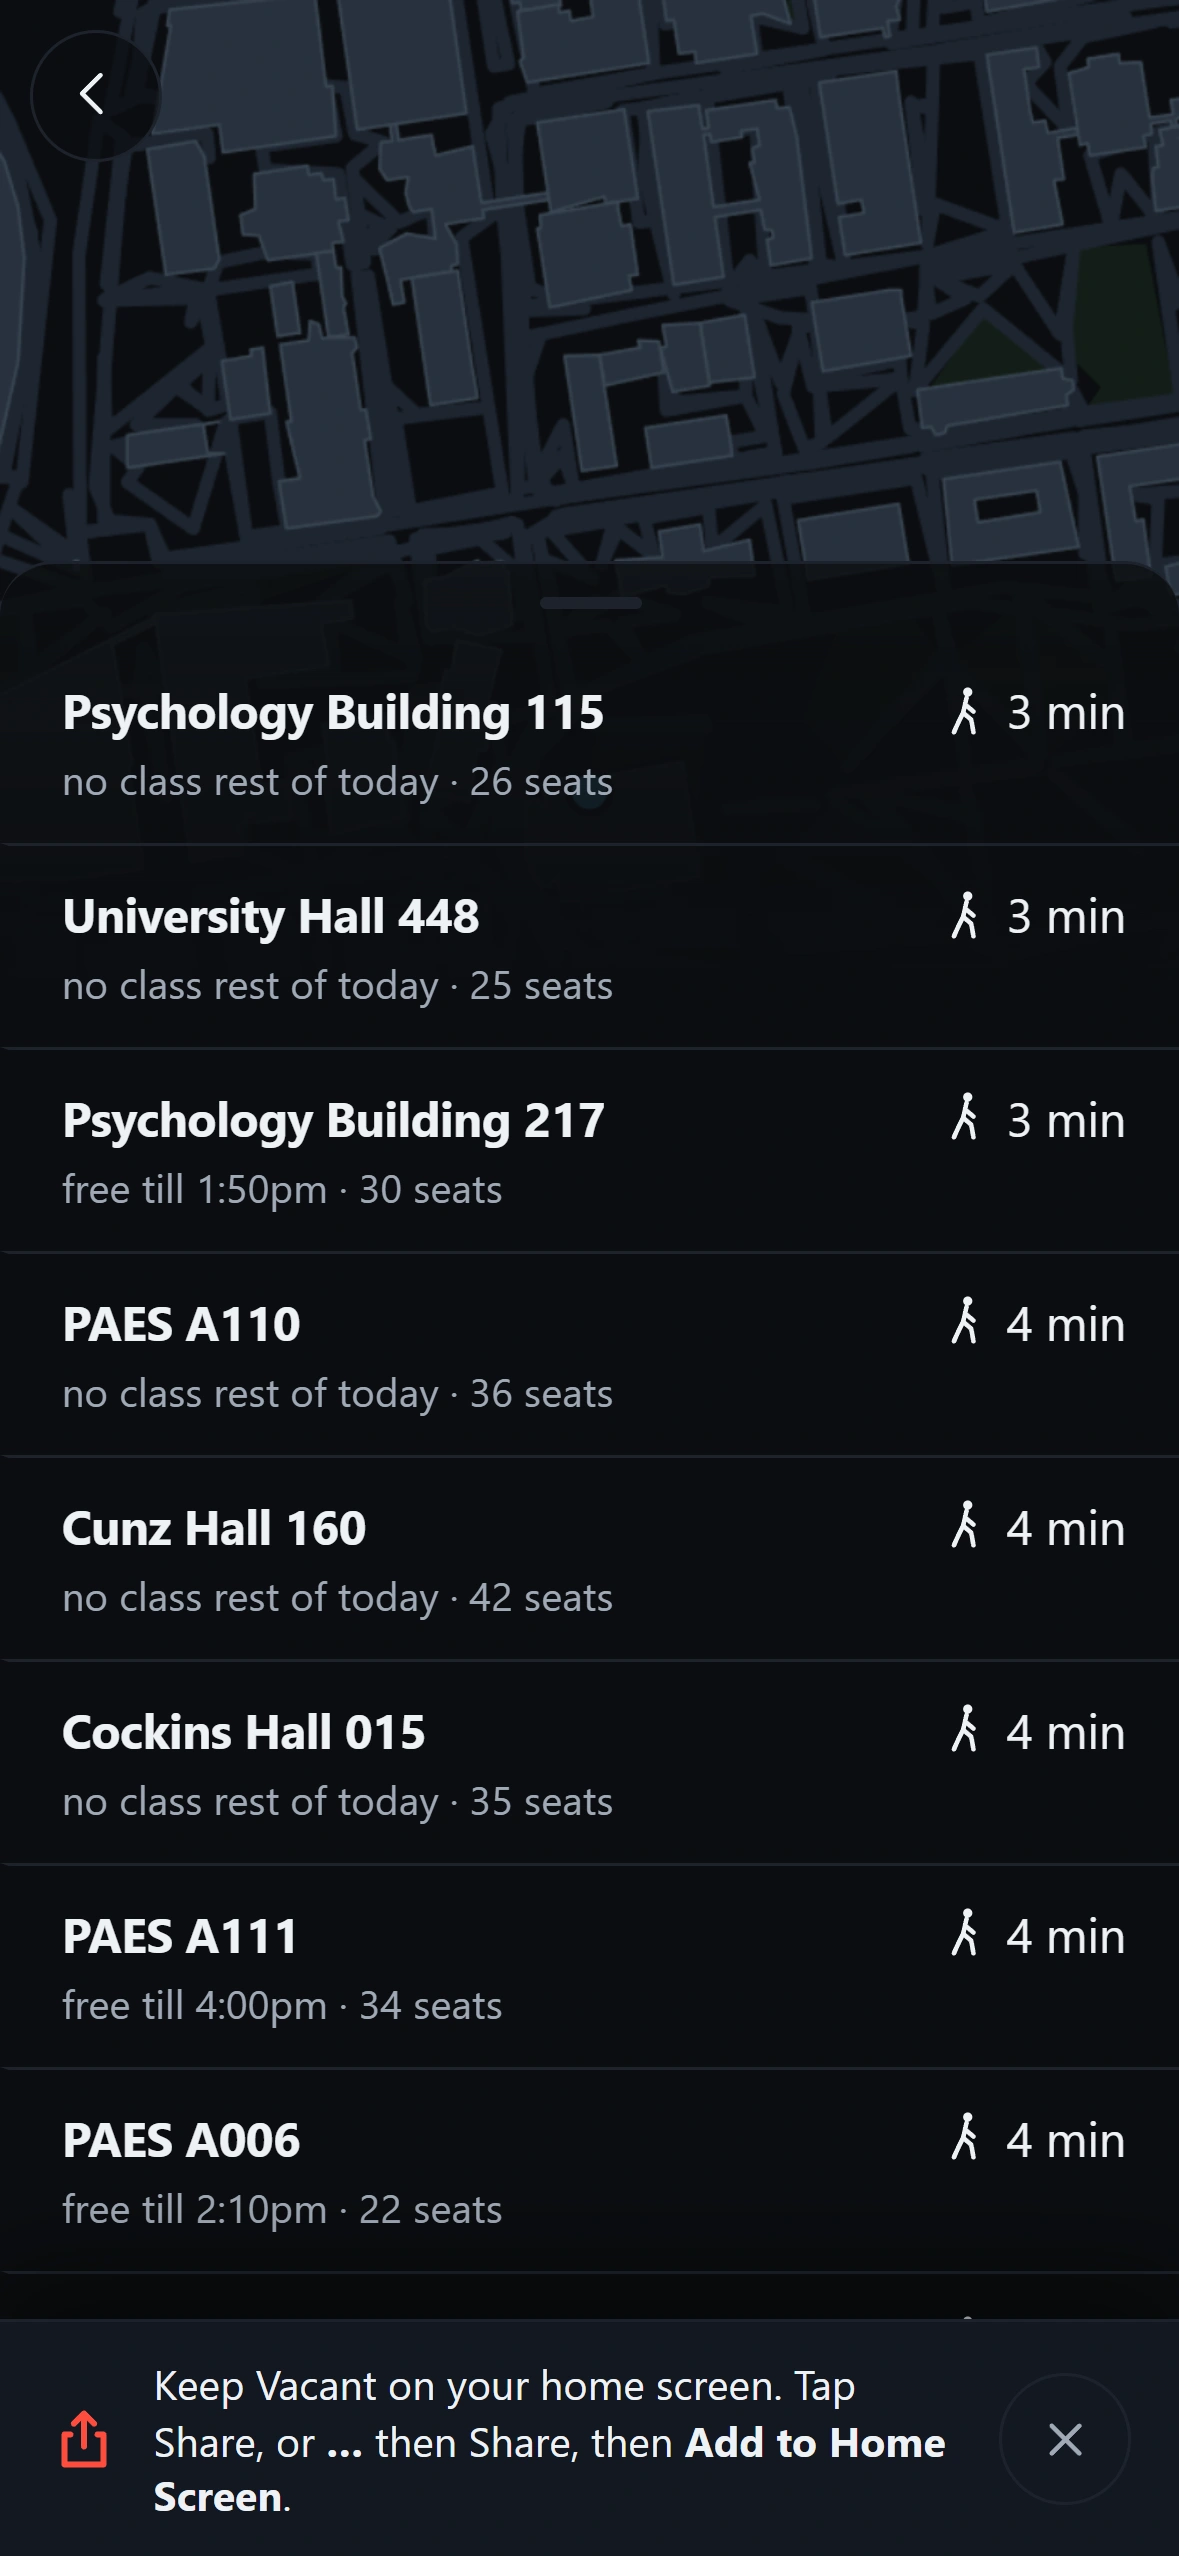
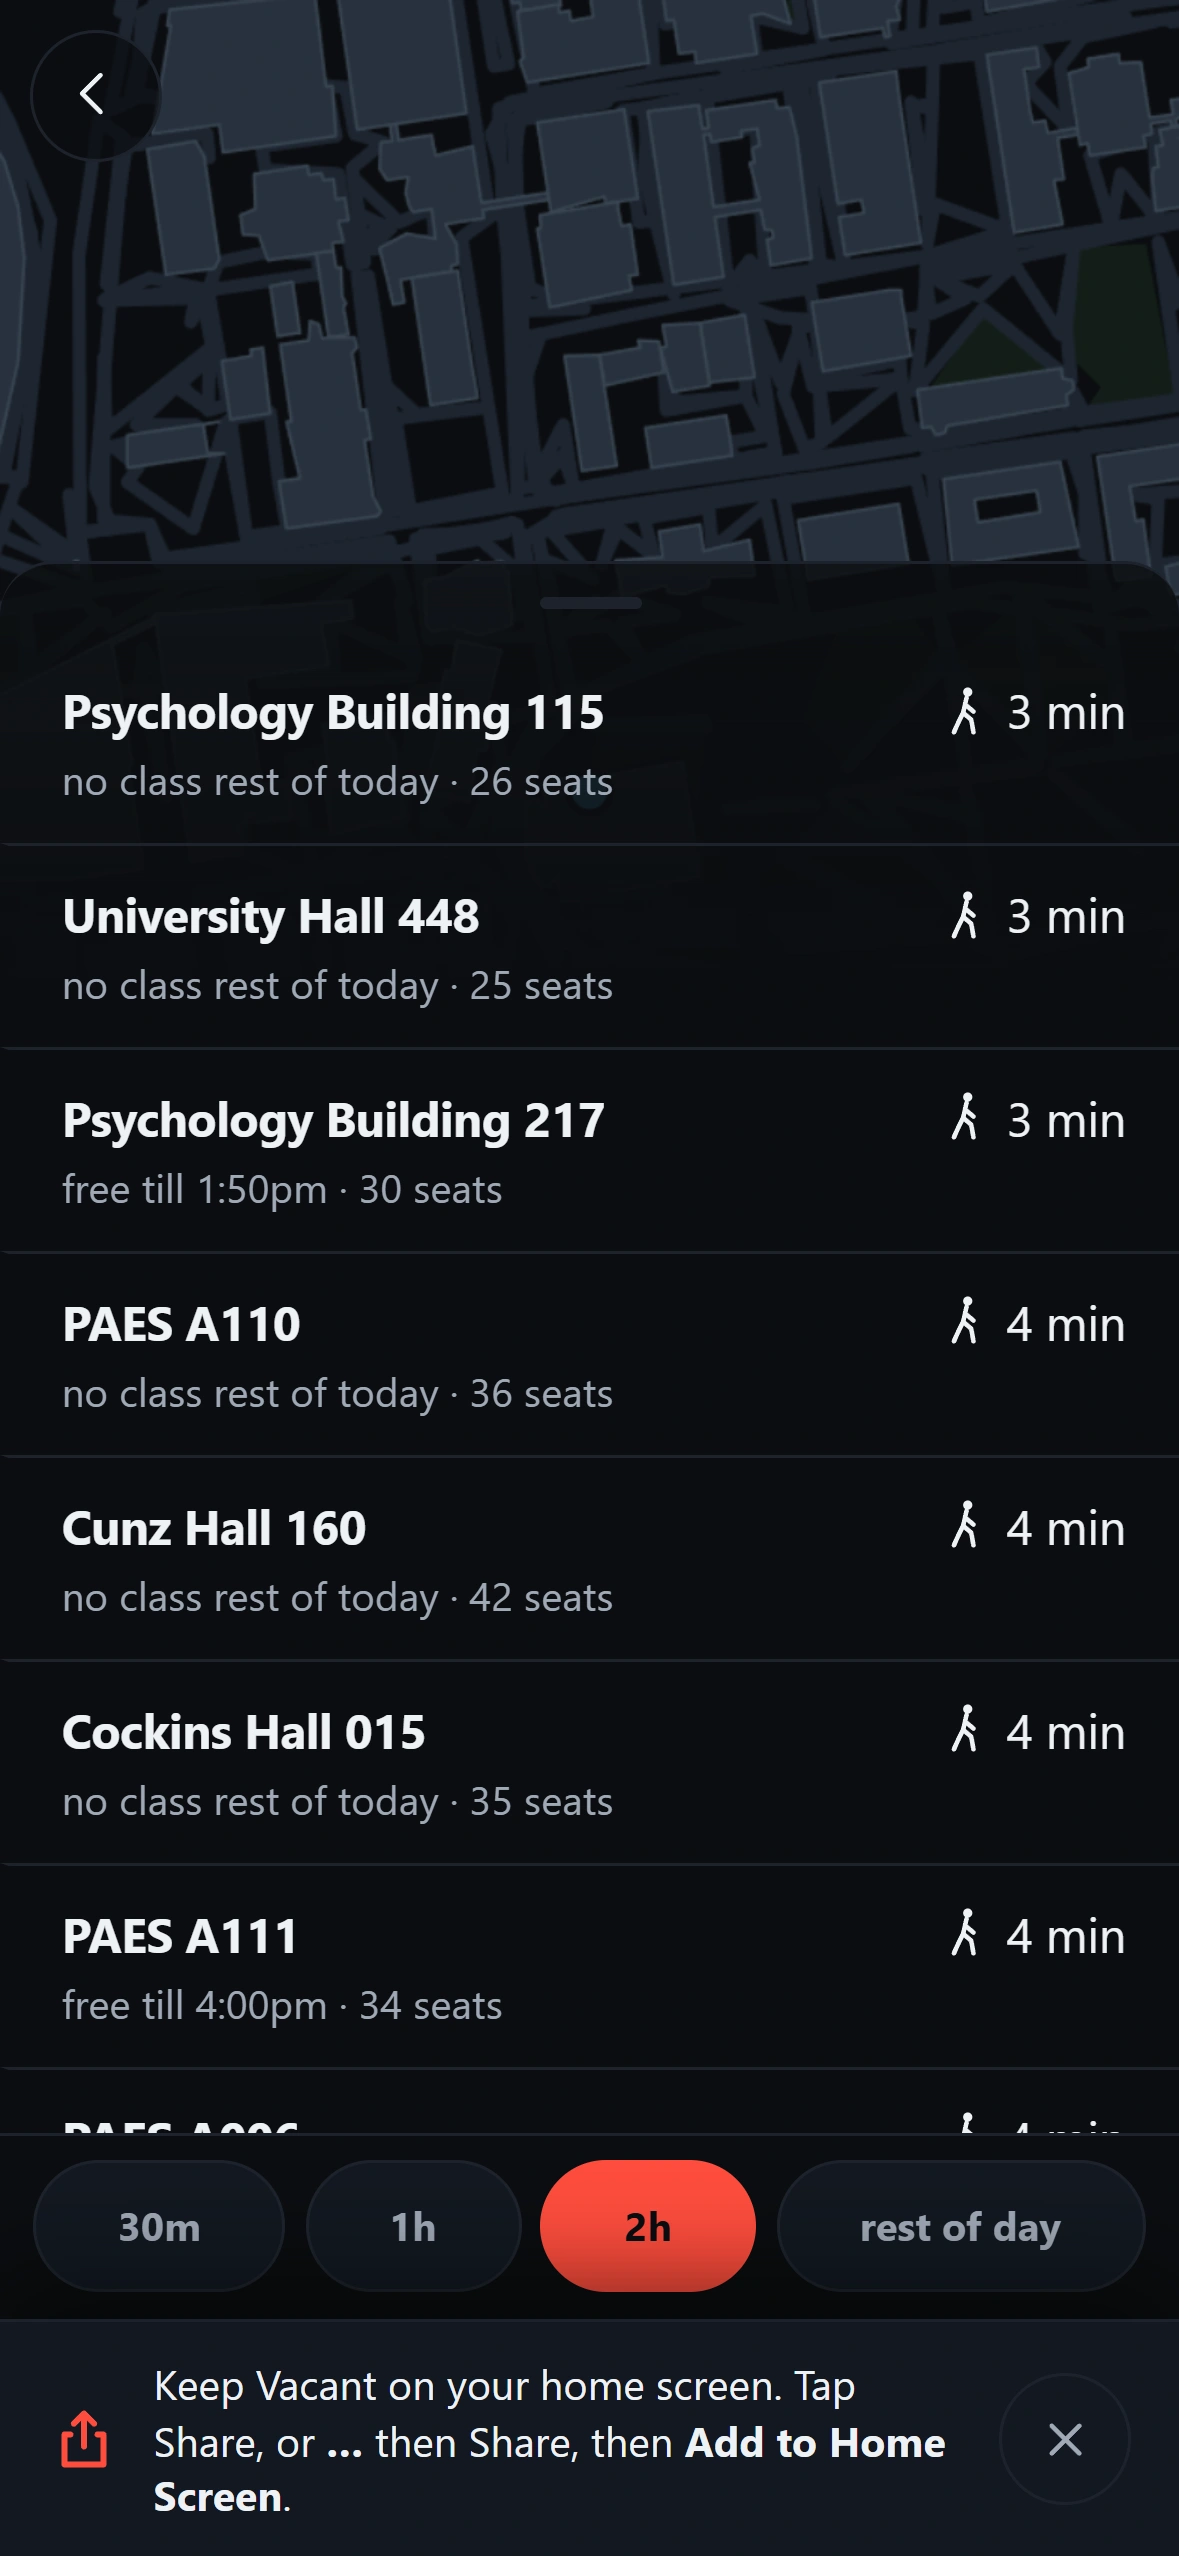
Give the sheet the rail's height, the dismiss to the grip, and the room its own band
Three ways the sheet was in the way of the answer it holds.

The install rail buried the question. body.has-bar padded #list and #room, and
both of those are panes INSIDE #sheet. The duration chips are the pane's sibling
below it, so they moved nowhere and the rail sat straight on top of them. With
both bars up, elementFromPoint at the centre of all four chips returned an
element inside #bars at every size tried. docs/media/list.webp was shipping it:
the committed frame has the install hint sitting where the chips belong.
body.has-bar #sheet lifts everything the sheet holds.

                                       375x667   393x852   430x932
  chips that answer a tap, before          0/4       0/4       0/4
  chips that answer a tap, after           4/4       4/4       4/4

A 44px drag anywhere on the sheet fired the same dismiss the back arrow fires. A
row at the top of the list has nothing left to scroll, so a pull on it becomes a
sheet drag, and 60px of it ended on the question screen with the list, the
selection and the scroll position gone. A drag that starts on a pane bottoms out
at peek now, and the grip has to be pulled through the whole 88px below peek
before a release means anything. Measured on the real app, a 60px pull on a .row
leaves screen=list, sheetH and scrollTop all unchanged at all three sizes; 200px
from #handle still dismisses.

showAsk() is not touched. js/app.js documents that dismiss as the same action the
[…]

diff --git a/js/app.js b/js/app.js
@@ -104,9 +104,23 @@ const FULL = 0.78;
 // grid are on screen before anybody scrolls.
 const ROOM_SHEET = 0.72;
 
-// Drag the sheet this far below peek and it means "take me back to the
-// question", which is the same action the back arrow fires.
-const DISMISS_PX = 44;
+// Where the sheet rests on each screen, written down once. viewport() used to
+// hold a second copy of this that said peek on every screen, so the room screen
+// framed the walk line for a 324px sheet and then drew it under a 613px one:
+// measured at 393x852, 164 of the 206px of target ink came out under the panel.
+const REST = { ask: 0, list: PEEK, near: PEEK, room: ROOM_SHEET, pick: FULL, about: FULL };
+const restFraction = () => REST[state.screen] ?? PEEK;
+
+// The whole of the sheet's travel below peek. Pull the grip through it and the
+// release means "take me back to the question", which is the same action the
+// back arrow fires; the sheet stops dead under the finger at the bottom, so the
+// gesture has to be held there rather than flicked past.
+//
+// It was 44px and every pointerdown on the sheet could reach it. A 60px pull on
+// a row at the top of the list, where the pane has nothing left to scroll so the
+// drag becomes a sheet drag, threw the list, the selection and the scroll
+// position away. A drag that starts on a pane bottoms out at peek now.
+const DISMISS_PX = 88;
 
 // A fix this coarse turns every walk time into an estimate, so the row says
 // "~4 min" and the accessible name says "about 4 minutes".
@@ -225,7 +239,8 @@ function surface() {
 // sheet is not covering, and the map centres on the middle of THAT, which is
 // what puts the you-dot back on screen.
 //
-// It is the strip at the sheet's RESTING height, not at its current one.
+// It is the strip at the screen's RESTING height, not at the sheet's current
+// one, and REST is where that height is written down.
 // `band` feeds both the vertical centring and the zoom, through
 // `Math.min(width, band)` in js/map.js, so tracking the live drag meant the map
 // zoomed out and slid upward under the thumb every time the sheet was pulled
@@ -242,7 +257,7 @@ function viewport() {
   return {
     width,
     height,
-    band: state.screen === 'ask' ? height : Math.round(height * (1 - PEEK)),
+    band: Math.round(height * (1 - restFraction())),
     dpr: lastSize.dpr || Math.min(window.devicePixelRatio || 1, 2),
   };
 }
@@ -333,9 +348,9 @@ let sheetH = 0;
 // without firing a scroll event, so the paint has to re-sync touch-action.
 let syncPaneTouch = () => {};
 
-function setSheet(px, snap) {
+function setSheet(px, snap, floor = PEEK * window.innerHeight - DISMISS_PX) {
   const H = window.innerHeight;
-  const h = Math.max(PEEK * H - DISMISS_PX * 2, Math.min(FULL * H, px));
+  const h = Math.max(floor, Math.min(FULL * H, px));
   sheetH = h;
   const sheet = $('sheet');
   sheet.classList.toggle('snap', Boolean(snap));
@@ -370,6 +385,11 @@ function attachSheet() {
       lastT: e.timeStamp,
       v: 0,
       mode,
+      // Only the grip may take the sheet below peek, and below peek is the one
+      // place a release throws the answer away. Fixed at the start of the
+      // gesture, because a pending drag becomes a sheet drag on the first 8px
+      // and must not pick up the grip's reach on the way.
+      floor: PEEK * window.innerHeight - (mode === 'sheet' ? DISMISS_PX : 0),
       pane: pane(),
     };
   };
@@ -418,7 +438,7 @@ function attachSheet() {
     // A finger that dragged is not a finger that tapped a row.
     swallow = true;
     if (drag.mode === 'scroll') drag.pane.scrollTop = Math.max(0, -dy);
-    else setSheet(drag.h0 - dy, false);
+    else setSheet(drag.h0 - dy, false, drag.floor);
     e.preventDefault();
   });
 
@@ -432,7 +452,9 @@ function attachSheet() {
     const H = window.innerHeight;
     const peek = PEEK * H;
     const full = FULL * H;
-    if (sheetH < peek - DISMISS_PX) {
+    // The end of the grip's travel, not a nudge past peek. A drag that started
+    // on a pane has its floor AT peek, so it never gets here.
+    if (sheetH <= peek - DISMISS_PX) {
       setSheet(peek, true);
       toAsk();
       return;
@@ -713,7 +735,7 @@ function select(i) {
   }
   state.selected = r;
   markRows();
-  setSheet(PEEK * window.innerHeight, true);
+  setSheet(restFraction() * window.innerHeight, true);
   frame(r);
   say(`${roomLabel(r)}, ${r.walk} minute walk, shown on the map.`);
 }
@@ -853,7 +875,7 @@ function selectBuilding(code) {
   if (!b) return;
   const found = [...state.groups.open, ...state.groups.unknown, ...state.groups.closed].find((x) => x.code === code);
   state.selected = { id: code, building: code, walk: found?.walk ?? null };
-  setSheet(PEEK * window.innerHeight, true);
+  setSheet(restFraction() * window.innerHeight, true);
   frame(state.selected);
   say(`${shortName(b.name)}, shown on the map.`);
 }
@@ -1609,16 +1631,15 @@ function showAsk() {
   if (orientationOff) orientationOff();
 }
 
-function sheetHeight(fraction) {
-  if (!sheetH) setSheet(fraction * window.innerHeight, false);
-  else setSheet(sheetH, false);
+function sheetHeight() {
+  setSheet(sheetH || restFraction() * window.innerHeight, false);
 }
 
 function showList() {
   showPane('list');
   $('back').setAttribute('aria-label', 'Back to the question');
   $('list').scrollTop = state.listScroll;
-  sheetHeight(PEEK);
+  sheetHeight();
 }
 
 function showNear() {
@@ -1627,7 +1648,7 @@ function showNear() {
   $('back').setAttribute('aria-label', 'Back to the question');
   paintNear(nearReason());
   $('near').scrollTop = 0;
-  sheetHeight(PEEK);
+  sheetHeight();
   focusHeading($('near-h'));
   settle();
 }
@@ -1638,14 +1659,14 @@ function showPick() {
   $('back').setAttribute('aria-label', 'Back without picking a building');
   paintPick();
   $('pick').scrollTop = 0;
-  setSheet(FULL * window.innerHeight, true);
+  setSheet(restFraction() * window.innerHeight, true);
   focusHeading($('pick-h'));
 }
 
 function showAbout() {
   showPane('about');
   $('back').setAttribute('aria-label', 'Back');
-  setSheet(FULL * window.innerHeight, true);
+  setSheet(restFraction() * window.innerHeight, true);
   paintAbout();
 }
 
@@ -1683,7 +1704,7 @@ function showRoom(id, { keepDay = false } = {}) {
   // whose first two hours are the only ones above the fold is a calendar
   // nobody scrolls. The map keeps its own composition either way, because the
   // sheet no longer feeds the viewport.
-  setSheet(ROOM_SHEET * window.innerHeight, true);
+  setSheet(restFraction() * window.innerHeight, true);
   if (r) {
     markRows();
     frame(r);
@@ -2021,7 +2042,7 @@ window.addEventListener('DOMContentLoaded', () => {
 
   attachSheet();
   window.addEventListener('resize', () => {
-    if (state.screen !== 'ask') setSheet(sheetH || PEEK * window.innerHeight, false);
+    if (state.screen !== 'ask') sheetHeight();
   });
 
   // Drag to pan, wheel or pinch to zoom. Once a finger has moved the camera the

diff --git a/index.html b/index.html
@@ -564,9 +564,15 @@
   }
   .bar-go { background: var(--accent); border: 1px solid var(--accent); color: #fff; font-weight: 650; padding: 0 1rem; }
   .bar-x { background: transparent; border: 1px solid var(--line); color: var(--dim); }
-  /* A fixed bar covers the last row or two of the list. js/install.js measures
-     the whole rail, so two bars give back two bars worth rather than one. */
-  body.has-bar #list, body.has-bar #room { padding-bottom: calc(1rem + var(--bar-h, 0px)); }
+  /* A fixed rail covers the bottom of the sheet, and what lives down there is
+     the duration chips, not the last row of the list. Padding a pane INSIDE the
+     sheet moved nothing that sits below the pane: with both bars up,
+     elementFromPoint at the centre of all four chips returned an element inside
+     #bars at 375x667, 393x852 and 430x932, so the app's one question was
+     unhittable on all three. The sheet takes the height back instead and
+     everything in it comes up with it. js/install.js measures the whole rail,
+     so two bars give back two bars worth rather than one. */
+  body.has-bar #sheet { padding-bottom: calc(var(--safe-b) + var(--bar-h, 0px)); }
 
   /* The cold card sits above everything, including the note pill, because when
      it is up there is nothing underneath it worth reading. */

diff --git a/js/install.js b/js/install.js
@@ -163,10 +163,10 @@ function rail(doc) {
   return holder;
 }
 
-// A fixed rail sits over the last row or two of the ranked list. The list gets
-// that height back as padding rather than losing it, measured off the rail
-// itself: the copy wraps differently at different text sizes, and two bars are
-// twice the debt of one.
+// A fixed rail sits over the bottom of the sheet, duration chips and all. The
+// sheet gets that height back as padding rather than losing it, measured off
+// the rail itself: the copy wraps differently at different text sizes, and two
+// bars are twice the debt of one.
 function measure(doc) {
   const holder = doc.getElementById(RAIL);
   if (!holder) {

diff --git a/sw.js b/sw.js
@@ -8,7 +8,7 @@
 // installed icon to last month's app.js forever.
 //
 // Measured over the committed blobs, which is the copy Pages serves:
-// `git show HEAD:<file> | gzip -9 -c | wc -c` on gzip 1.14. Shell 75,078 bytes,
+// `git show HEAD:<file> | gzip -9 -c | wc -c` on gzip 1.14. Shell 76,305 bytes,
 // data 85,151. The data side more than doubled when the index started carrying
 // which class is in the room: 2,024 course labels and one integer per block, so
 // the room screen can draw a day instead of listing it. Running the same command over a Windows working tree gives a

diff --git a/docs/DECISIONS.md b/docs/DECISIONS.md
@@ -1953,3 +1953,43 @@ the per-row spoken name stay at full length. The visible row is glyphs; the
 spoken name is the only place it states its own caveat in words, and shrinking
 the visible layer is exactly the reason the spoken one must not shrink with it.
 `docs/a11y-contract.md` specifies the order.
+
+
+## 2026-09-01  The sheet stops covering the question, and the room screen frames its own band
+
+**The install rail is paid for by the sheet, not by a pane inside it.**
+`body.has-bar` padded `#list` and `#room`. Those are panes INSIDE `#sheet`, and
+the duration chips are the pane's sibling below it, so they moved nowhere. With
+both bars up, `elementFromPoint` at the centre of all four chips returned an
+element inside `#bars` at 375x667, 393x852 and 430x932: the app's one question
+was unhittable at every size tried. `body.has-bar #sheet` lifts everything the
+sheet holds, and it is 4 of 4 at all three now. `docs/media/list.webp` was
+shipping the bug, with the install hint sitting where the chips belong.
+
+**Only the grip can throw the answer away.** A 44 px drag anywhere on the sheet
+fired the same dismiss the back arrow fires. A 60 px pull on a row at the top of
+the list, where the pane has nothing left to scroll so the gesture turns into a
+sheet drag, ended on the question screen with the list, the selection and the
+scroll position gone. A drag that starts on a pane now bottoms out at peek, and
+the grip has to be pulled through the whole 88 px below peek before a release
+means anything.
+
+`showAsk()` was NOT touched. js/app.js documents that dismiss as the same action
+the back arrow fires, so teaching it to keep `state.listScroll` would have
+redefined the back arrow with it. Only the trigger narrowed.
+
+**The map's band belongs to the screen, not to the sheet.** `viewport()` held a
+second copy of the resting height that said peek on every screen, so the room
+screen composed the walk line for a 324 px sheet and then drew it under a 613 px
+one. Measured off the canvas at 393x852, 164 of the 206 px of target ink came out
+under the panel and 0 of 122 does now; 77.8% at 375x667 and 80.7% at 430x932 both
+go to 0 as well. `REST` is the one place the resting height is written down, and
+both `setSheet` and `viewport()` read it.
+
+The cost, taken deliberately: the band is keyed to the screen's OPENING height
+and not to the sheet's live one, so a room sheet dragged back down to peek
+uncovers 528 px of map with the target still composed for the 239 it opened with,
+framed high rather than centred. Keying it to the live height is the bug the
+entry above fixed, where the map zoomed out and slid upward under the thumb every
+time the sheet moved. scripts/test/map.test.mjs asserts the residual so it cannot
+arrive as a surprise.
